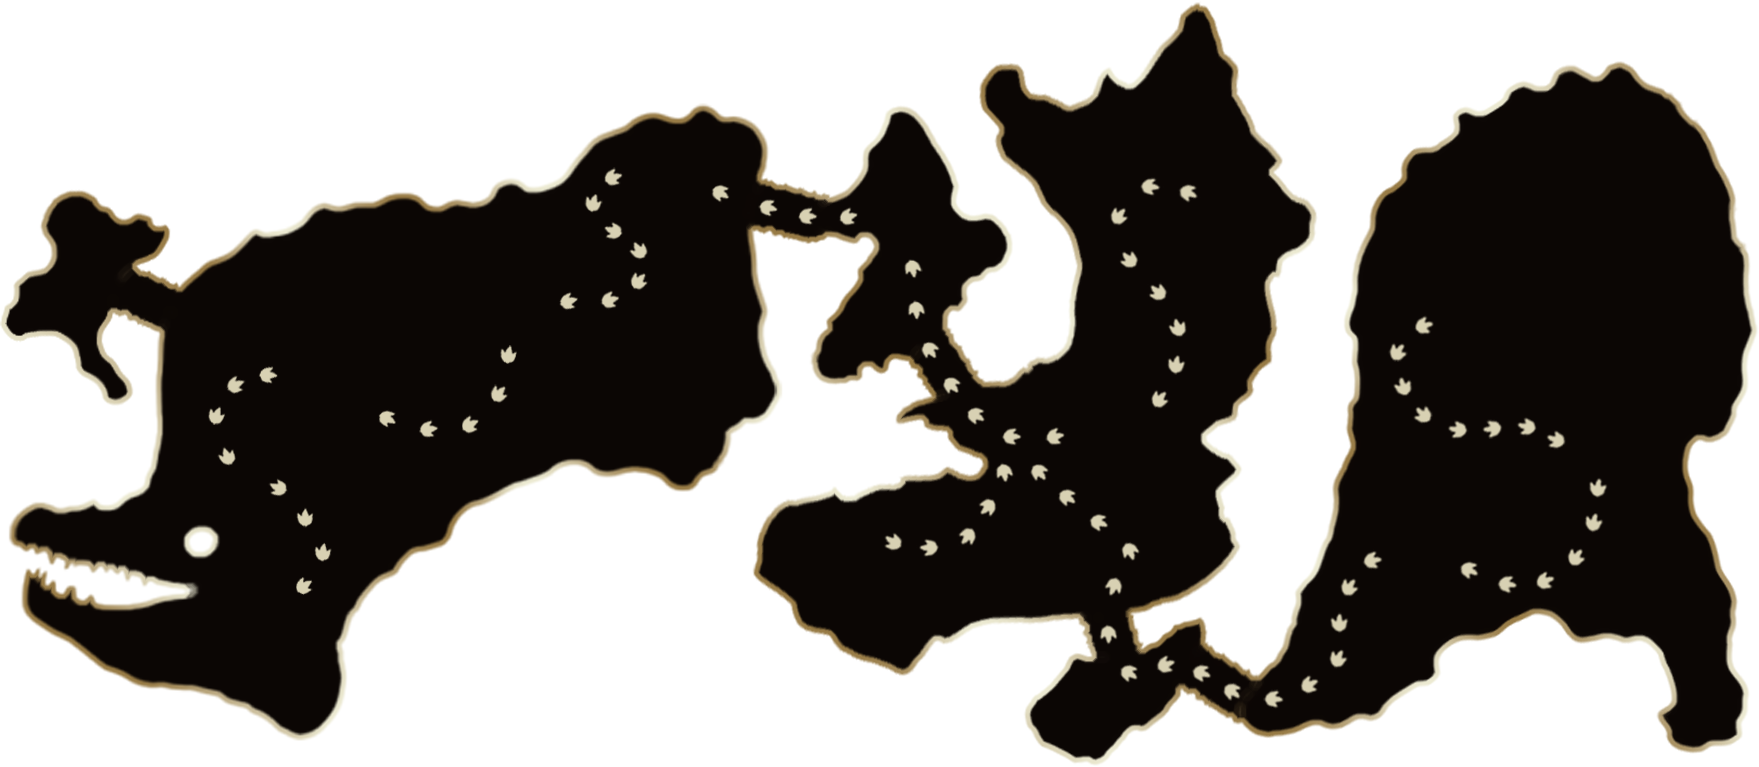
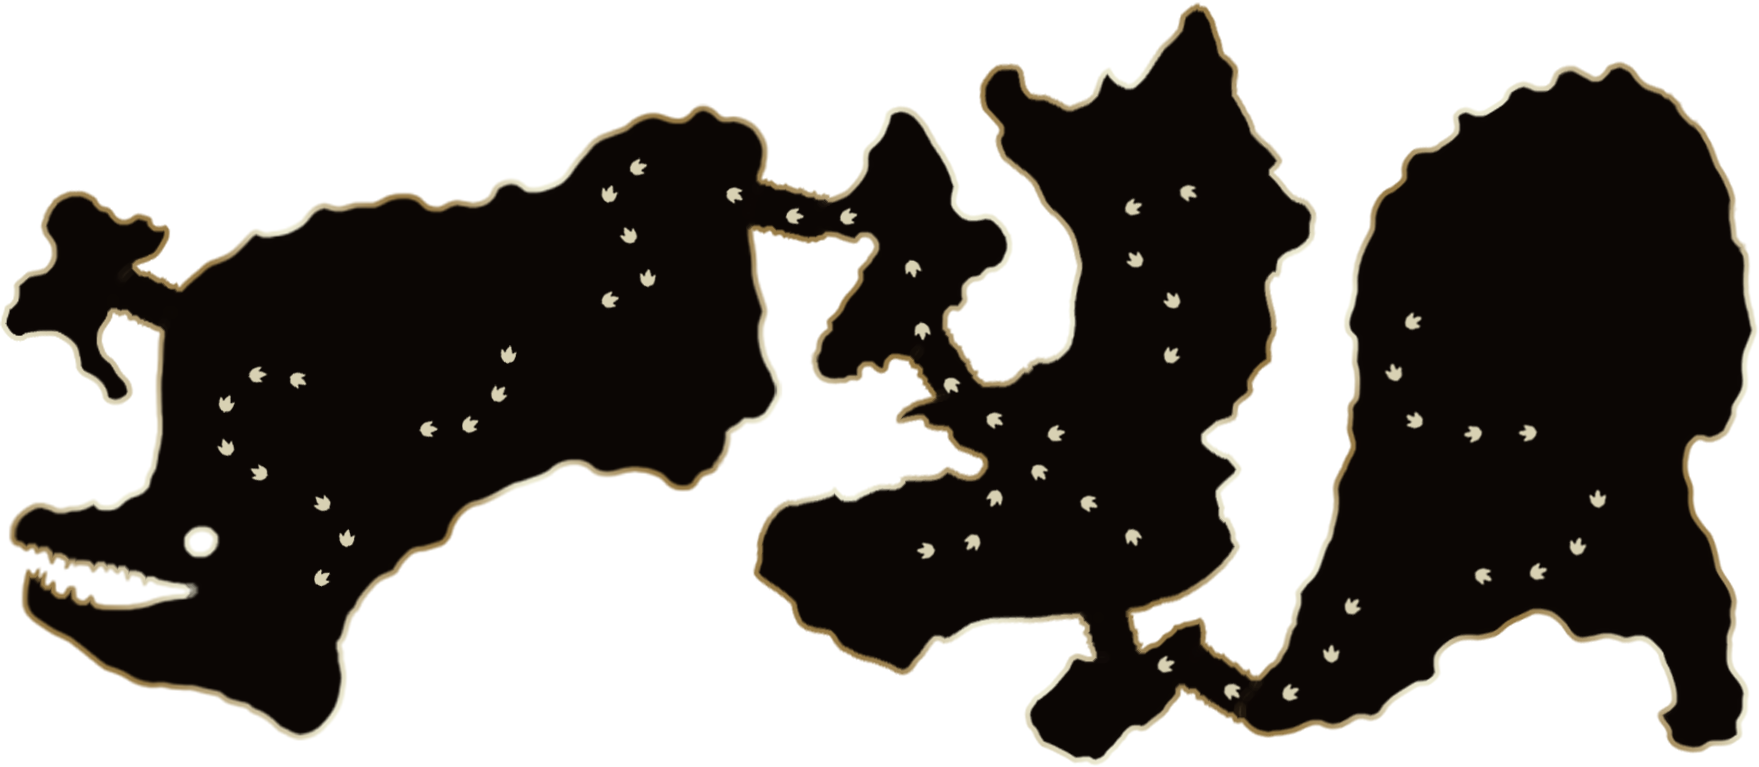
RaptorBites (food Restaurant) img redesign & positioning.

diff --git a/src/pages/public/Map/Map.css b/src/pages/public/Map/Map.css
@@ -77,17 +77,17 @@ body {
   100% { transform: translateY(0); }
 }
 
-.raptor-bites {
-  width: 15%;
-  height: 20%;
+.raptorBites {
+  width: 12%;
+  height: 15%;
   position: absolute;
   /* background-color: red; */
   background-image: url(/assets/img/map/raptor-bites.png);
   background-size: contain;
   background-position: center;
   background-repeat: no-repeat;
-  left: 25%;
-  bottom: 5%;
+  left: 26%;
+  bottom: 8%;
   animation: float 3s ease-in-out infinite;
 }
 

diff --git a/src/pages/public/Map/Map.tsx b/src/pages/public/Map/Map.tsx
@@ -33,7 +33,7 @@ export const Map = () => {
           </div>
         </div>
       </div>
-      <div className="raptor-bites"></div>
+      <img src="/public/assets/img/map/raptor-bites.png" alt="Raptor Bites" className="raptorBites"/>
 
       {/* COMMON ROOMS */}
       <PeriodsButtonHover stage="main-entrance" label="main entrance" />
